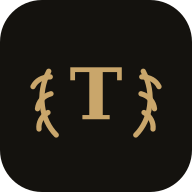
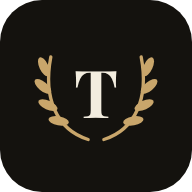
v1.16.0 - Ícono de la familia Stoica (laurel y T) y nombre Titanus

diff --git a/src/lib/novedades.ts b/src/lib/novedades.ts
@@ -4,6 +4,11 @@ export const COMMIT = __COMMIT__;
 
 export const NOVEDADES: { version: string; fecha: string; cambios: string[] }[] = [
   {
+    version: '1.16.0',
+    fecha: '2026-11-18',
+    cambios: ['Ícono nuevo de la familia Stoica: laurel dorado y T marfil.', 'La app ahora se llama "Titanus" en el teléfono.'],
+  },
+  {
     version: '1.15.2',
     fecha: '2026-11-18',
     cambios: ['Las carátulas de los programas se enfocan arriba: los personajes ya no salen con la cabeza cortada.'],

diff --git a/vite.config.ts b/vite.config.ts
@@ -28,8 +28,8 @@ export default defineConfig({
       injectRegister: null,
       includeAssets: ['icono.svg', 'icono-192.png', 'icono-512.png'],
       manifest: {
-        name: 'TITANUS',
-        short_name: 'TITANUS',
+        name: 'Titanus',
+        short_name: 'Titanus',
         description: 'Entrenamiento · Disciplina · Fuerza. Registrá cada serie como un legionario.',
         lang: 'es',
         theme_color: '#090909',

diff --git a/index.html b/index.html
@@ -7,7 +7,7 @@
     <meta name="description" content="TITANUS · Entrená con disciplina." />
     <link rel="icon" href="/icono.svg" type="image/svg+xml" />
     <link rel="apple-touch-icon" href="/icono-192.png" />
-    <title>TITANUS</title>
+    <title>Titanus</title>
     <script>
       try {
         var t = localStorage.getItem('titanus-tema') || 'oscuro';

diff --git a/capacitor.config.ts b/capacitor.config.ts
@@ -4,7 +4,7 @@ import type { CapacitorConfig } from '@capacitor/cli';
 // Si no hay conexión la primera vez, muestra public/sin-conexion.html (va dentro de la APK).
 const config: CapacitorConfig = {
   appId: 'py.titanus.app',
-  appName: 'TITANUS',
+  appName: 'Titanus',
   webDir: 'dist',
   server: {
     url: 'https://titanus-10398.web.app',

diff --git a/CLAUDE.md b/CLAUDE.md
@@ -61,6 +61,7 @@ Este archivo resume cómo trabajar en este repositorio. Leelo entero antes de ca
 - **Regla de Conocerte:** se mueve con eventos de puntero (dedo y mouse), rueda y flechas (`role="slider"`, `data-testid="regla"`); no usar scroll nativo (en PC no se podía arrastrar).
 - **Contraseña:** botón ojito "Mostrar/Ocultar contraseña" en Acceso; en pruebas usar `getByLabel('Contraseña', { exact: true })`.
 - **Familia estoica (v1.14.0, decisión del dueño):** TITANUS y Stoica (https://stoica-app.web.app) son una línea de apps que deben parecerse **sin perder** el negro y oro, la estructura ni las estatuas. Piezas comunes en `src/ui/familia.tsx`: `Laurel` (mismo dibujo que Stoica; `fondo` = marca de agua `.laurel-fondo`), `Grupo` (título de sección "I · TEXTO ——", clase `.grupo`) y `Ficha` (chip `.ficha`). `Seccion` de `piezas.tsx` usa `Grupo`. Inicio arranca con el **"Panel del día"** (`.panel-dia`, `data-testid="panel-dia"`): estatua-avatar, saludo según la hora (Buen día / Buenas tardes / Buenas noches), rango y fichas de fecha, racha y entrenamientos. "Tu semana" y "Entrenamiento de hoy" miden lo mismo en PC (212px, `tarjeta-hoy` / `tu-semana`, hay prueba: tarjetas lado a lado siempre del mismo alto). "Tu semana" igual que Stoica (día corto, número Playfair, hoy subrayado en oro, "n/7 días entrenados" con barra). Barra lateral PC: persona al pie (`persona-lateral`). Las pruebas buscan el saludo con `/(Buen día|Buenas tardes|Buenas noches), Nombre/`.
+- **Ícono y nombre (v1.16.0, decisión del dueño):** ícono de la familia Stoica (mismo laurel dorado `#C9A66B` + "T" en Playfair marfil `#F3EDDF` sobre `#14120E`). Se genera con `PW_CHROME=/usr/bin/google-chrome node scripts/iconos.mjs` → `public/icono.svg`, `icono-192/512.png` y `android/.../mipmap-*/ic_launcher(_round).png`. Nombre visible **"Titanus"** (manifest `name/short_name`, `appName` de Capacitor, `strings.xml`, `<title>`); la marca dentro de la app sigue en Cinzel. Cambiar el ícono de la APK obliga a reinstalarla.
 - Rangos por entrenamientos: Recluta 0, Legionario 10, Decurión 30, Centurión 60, Tribuno 120, Legado 200, César 365. Nivel = total/5 + 1.
 
 ## Reglas de trabajo
